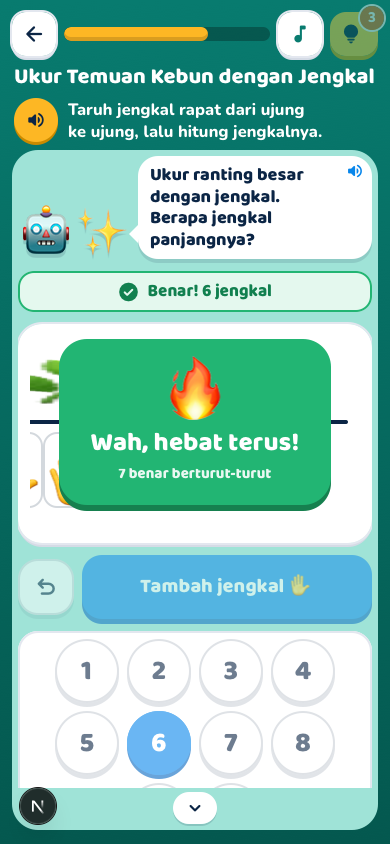
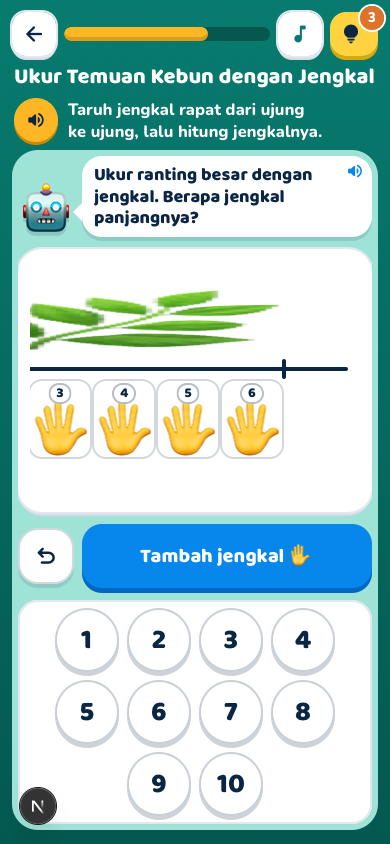
docs(qa): tampilkan ujung jengkal sebelum umpan balik

diff --git a/docs/qa/pilot-m37-42-2026-11-26/README.md b/docs/qa/pilot-m37-42-2026-11-26/README.md
@@ -1,6 +1,6 @@
 # QA lokal Pilot (SD 1), Misi 37–42
 
-26 November 2026 (Asia/Jakarta). Repo `rampai-group/rumila`; worktree terpisah `/private/tmp/rumila-pilot-m37-42`, branch `codex/qa-pilot-m37-42`, basis awal `origin/main` **6de92cca**.
+[PR #240](https://github.com/rampai-group/rumila/pull/240). 26 November 2026 (Asia/Jakarta). Repo `rampai-group/rumila`; worktree terpisah `/private/tmp/rumila-pilot-m37-42`, branch `codex/qa-pilot-m37-42`, basis awal `origin/main` **6de92cca**.
 
 Nomor berasal dari `petaJenjang({}, new Set(), KOMPETENSI, "SD1", ["MAT", "KODE", "SAINS"])`: total **42**, bukan urutan berkas satu pelajaran. Enam misi terakhir memuat tepat **12 paket utama**.
 
